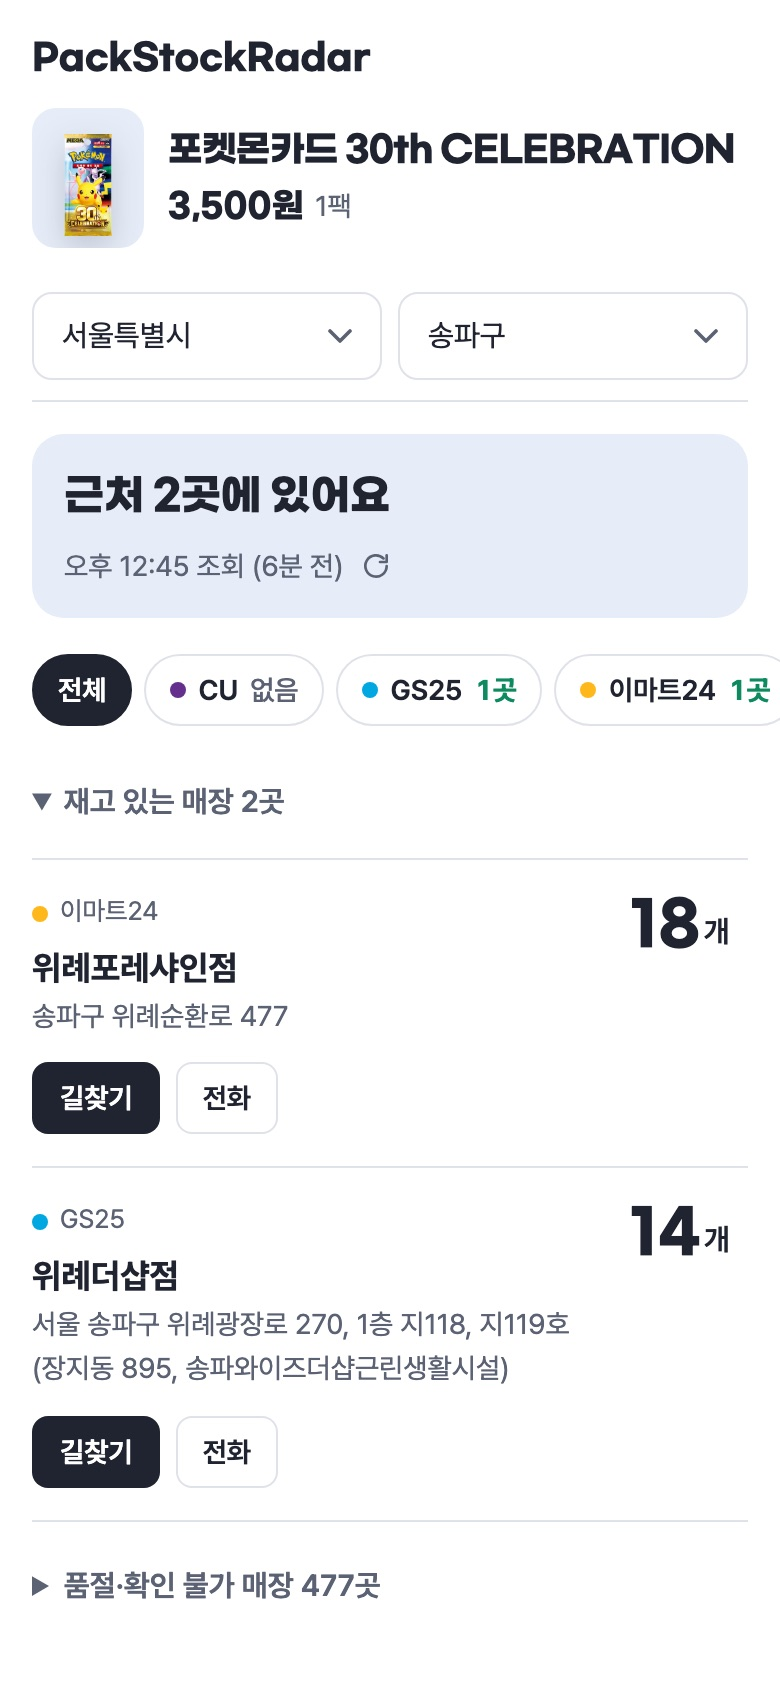
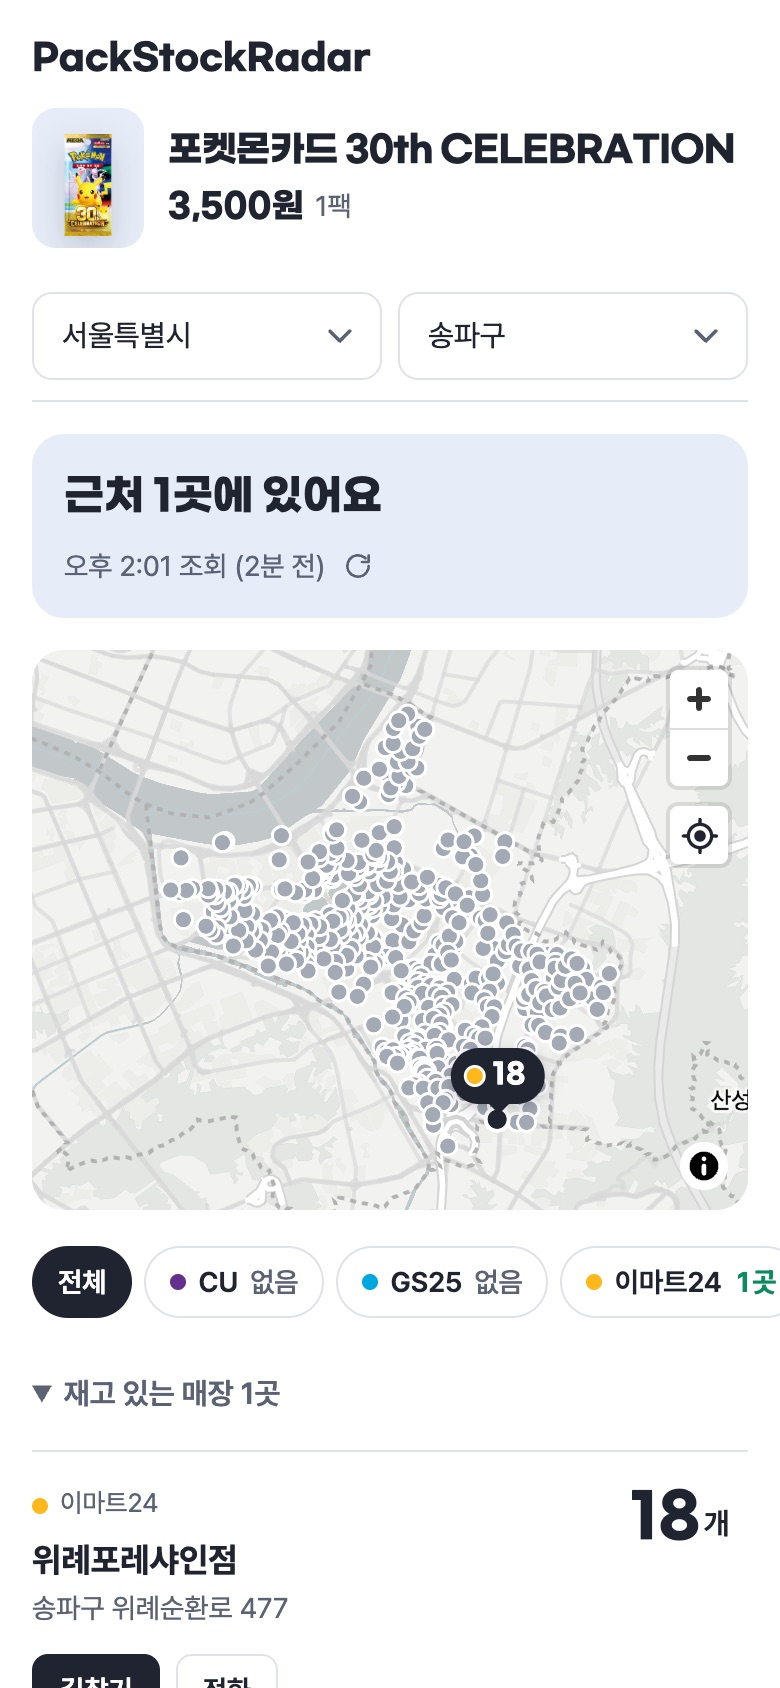
fix: PackStockRadar 소개 글의 재고 화면을 지도가 보이는 캡처로 교체하고 버튼색을 사이트 남색으로 변경

diff --git a/pack-stock-radar/guide/index.html b/pack-stock-radar/guide/index.html
@@ -60,11 +60,11 @@
         <figcaption><b>1</b>카드팩을 고르고</figcaption>
       </figure>
       <figure>
-        <img src="02-stock.jpg" width="780" height="1688" alt="서울 송파구 편의점별 재고 조회 결과: 이마트24 18개, GS25 14개">
+        <img src="02-stock.jpg" width="780" height="1688" alt="서울 송파구 편의점 매장 지도와 재고 조회 결과: 이마트24 위례포레샤인점 18개">
         <figcaption><b>2</b>지역을 고르면 재고가 나옵니다</figcaption>
       </figure>
     </div>
-    <p>내 위치를 쓰거나 시/도 · 시/군/구를 직접 고르면 그 구 안의 편의점 매장 재고가 가까운 순으로 나옵니다. 재고 있는 매장은 수량과 함께 맨 위에 나오고, 바로 <b>길찾기</b>나 <b>전화</b>로 이어집니다.</p>
+    <p>내 위치를 쓰거나 시/도 · 시/군/구를 직접 고르면 그 구 안의 편의점 매장이 <b>지도</b>와 목록으로 나옵니다. 재고 있는 매장은 수량과 함께 맨 위에 나오고, 바로 <b>길찾기</b>나 <b>전화</b>로 이어집니다.</p>
 
     <h2>이름이 달라도 같은 상품으로 찾습니다</h2>
     <p>같은 카드팩도 편의점마다 상품명이 다릅니다.</p>

diff --git a/style.css b/style.css
@@ -357,11 +357,11 @@ footer {
 /* per-app themes — colors taken from each app's own palette */
 body.theme-cast { --accent: #2e5ce6; --accent-soft: rgba(46, 92, 230, 0.10); }
 body.theme-offiky { --accent: #2f7d1c; --accent-soft: rgba(108, 179, 40, 0.14); }
-body.theme-psr { --accent: #0e8a5f; --accent-soft: rgba(14, 138, 95, 0.10); }
+body.theme-psr { --accent: #1f2430; --accent-soft: rgba(31, 36, 48, 0.06); }
 @media (prefers-color-scheme: dark) {
   body.theme-cast { --accent: #5b8df7; --accent-soft: rgba(91, 141, 247, 0.14); --on-accent: #0b0c0e; }
   body.theme-offiky { --accent: #afe356; --accent-soft: rgba(175, 227, 86, 0.12); --on-accent: #0b0c0e; }
-  body.theme-psr { --accent: #3ccf95; --accent-soft: rgba(60, 207, 149, 0.12); --on-accent: #0b0c0e; }
+  body.theme-psr { --accent: #e9eaec; --accent-soft: rgba(233, 234, 236, 0.08); --on-accent: #0b0c0e; }
 }
 /* the-perfect: always dark, lime = PERFECT score color */
 body.theme-perfect {
